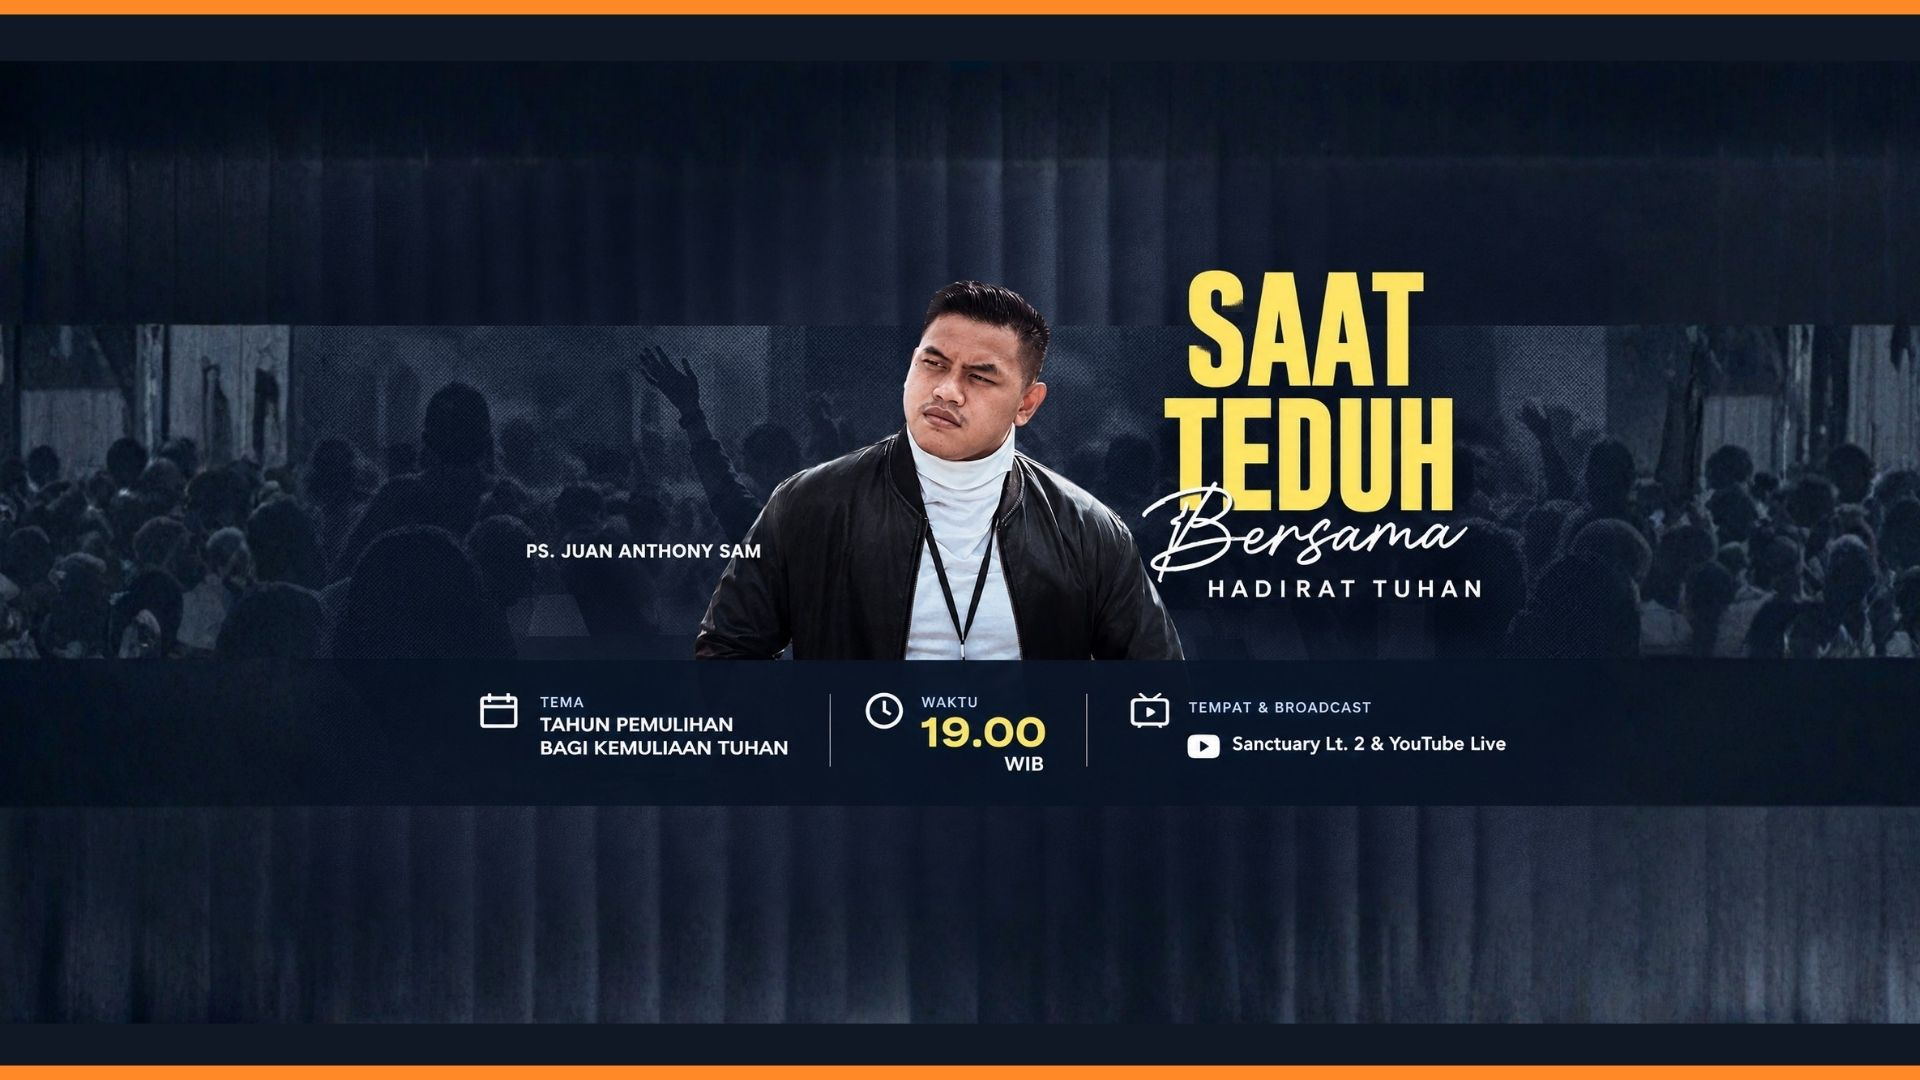
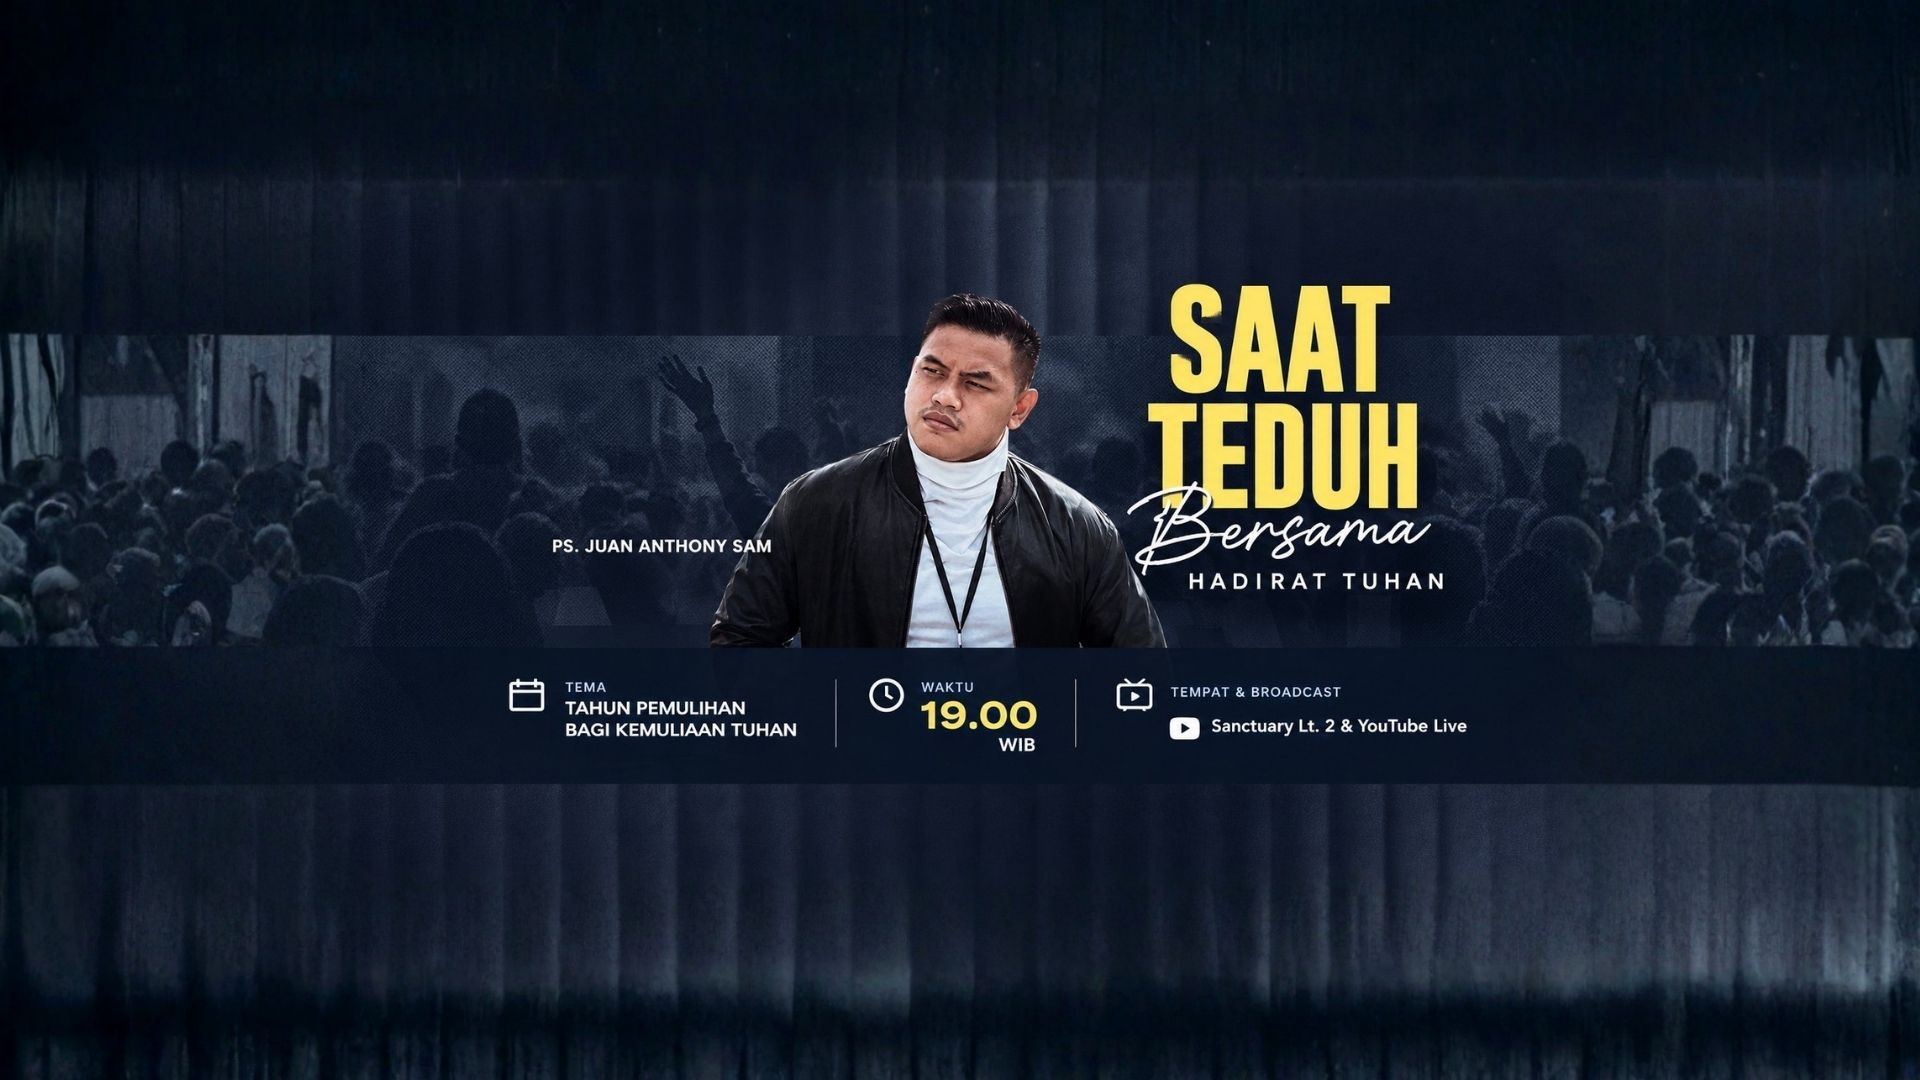
Update gallery documentation images

diff --git a/database/seeders/GallerySeeder.php b/database/seeders/GallerySeeder.php
@@ -25,9 +25,9 @@ class GallerySeeder extends Seeder
             ],
             [
                 'title'      => 'Dokumentasi Pelayanan 1',
-                'category'   => 'Ibadah',
+                'category'   => 'Ibadah duka',
                 'image_url'  => asset('images/Dokumentasi1.png'),
-                'caption'    => 'Momen ibadah dan pelayanan jemaat Ekklesia Surabaya.',
+                'caption'    => 'Ibadah duka',
                 'sort_order' => 2,
             ],
             [
@@ -36,6 +36,20 @@ class GallerySeeder extends Seeder
                 'image_url'  => asset('images/Dokumentasi2.png'),
                 'caption'    => 'Kebersamaan dan hadirat Tuhan dalam setiap sesi pelayanan jemaat.',
                 'sort_order' => 3,
+            ],
+            [
+                'title'      => 'Dokumentasi Pelayanan 3',
+                'category'   => 'Ibadah',
+                'image_url'  => asset('images/Dokumentasi3.png'),
+                'caption'    => 'Suasana khidmat dan semangat kebersamaan dalam pelayanan jemaat.',
+                'sort_order' => 4,
+            ],
+            [
+                'title'      => 'Dokumentasi Pelayanan 4',
+                'category'   => 'Ibadah',
+                'image_url'  => asset('images/Dokumentasi4.png'),
+                'caption'    => 'Moment persekutuan dan pelayanan yang memperlihatkan karya Tuhan di tengah jemaat.',
+                'sort_order' => 5,
             ],
         ];
 
